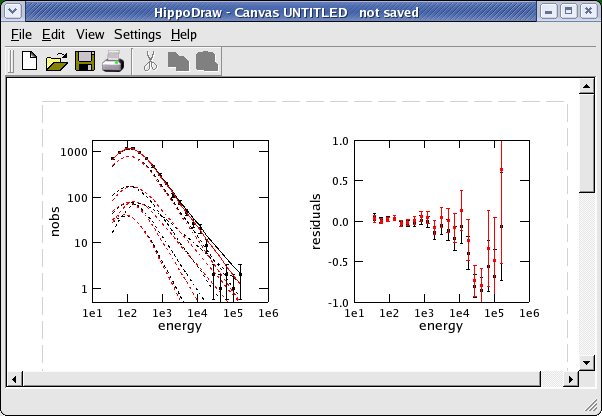
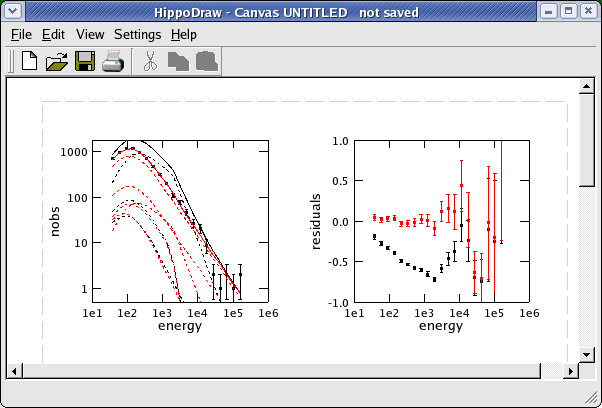
use broken power-laws in demo; fix plotting

diff --git a/src/pyLike.h b/src/pyLike.h
@@ -8,8 +8,8 @@
    package, I've exposed the C++ classes of Likelihood to <a
    href="http://www.python.org/">Python</a>.  These classes by
    themselves do not constitute a suitable interactive interface.
-   However, with a modest amount effort, I've written a couple of
-   small python modules using these classes, SrcAnalysis.py and
+   However, armed with these classes and with a modest effort, I've
+   written a couple of small python modules, SrcAnalysis.py and
    SrcModel.py, that provide something fairly reasonable.
 
    @section demo Interface Demo
@@ -30,7 +30,7 @@ class SrcAnalysis(object):
     - <tt>expMap</tt>: exposure map (produced by @b gtexpmap)
     - <tt>irfs</tt>: response functions, e.g., <tt>'DC1'</tt>, <tt>'G25'</tt>,
       or <tt>'TEST'</tt>
-    - <tt>optimizer</tt>: <tt>'Minuit'</tt>, <tt>'Dmnrgb'</tt>, 
+    - <tt>optimizer</tt>: <tt>'Minuit'</tt>, <tt>'Drmngb'</tt>, 
       or <tt>'Lbfgs'</tt>.
 
 For this demo, I've prepared a small script that creates the SrcAnalysis
@@ -78,10 +78,12 @@ Here are the event files found by <tt>glob</tt>:
 'model', 'optimizer', 'plot', 'plotData', 'resids']
 @endverbatim
 
-Create some references to the object's methods for Xspec-like syntax:
+Let's create some references to the object's methods for Xspec-like syntax:
 
 @verbatim
->>> model = like.model; plot = like.plot; fit = like.fit
+>>> model = like.model
+>>> plot = like.plot
+>>> fit = like.fit
 @endverbatim
 
 <tt>SrcModel.__repr__()</tt> has been overloaded to provide a summary of
@@ -117,26 +119,29 @@ my_3EG_J0530p1323
 8          Scale:  1.000e+02  0.000e+00  3.000e+01  2.000e+03 ( 1.000e+00) fixed
 
 my_3EG_J0534p2200
-   Spectrum: PowerLaw
-9      Prefactor:  2.700e+01  0.000e+00  1.000e-05  1.000e+03 ( 1.000e-09)
-10         Index: -2.190e+00  0.000e+00 -5.000e+00 -1.000e+00 ( 1.000e+00)
-11         Scale:  1.000e+02  0.000e+00  3.000e+01  2.000e+03 ( 1.000e+00) fixed
+   Spectrum: BrokenPowerLaw
+9      Prefactor:  8.000e-02  0.000e+00  1.000e-03  1.000e+03 ( 1.000e-09)
+10        Index1: -2.190e+00  0.000e+00 -5.000e+00 -1.000e+00 ( 1.000e+00)
+11        Index2: -4.890e+00  0.000e+00 -5.000e+00 -1.000e+00 ( 1.000e+00)
+12    BreakValue:  1.500e+03  0.000e+00  3.000e+01  2.000e+03 ( 1.000e+00)
 
 my_3EG_J0633p1751
-   Spectrum: PowerLaw
-12     Prefactor:  2.329e+01  0.000e+00  1.000e-05  1.000e+03 ( 1.000e-09)
-13         Index: -1.660e+00  0.000e+00 -5.000e+00 -1.000e+00 ( 1.000e+00)
-14         Scale:  1.000e+02  0.000e+00  3.000e+01  2.000e+03 ( 1.000e+00) fixed
+   Spectrum: BrokenPowerLaw
+13     Prefactor:  2.000e+00  0.000e+00  1.000e-03  1.000e+03 ( 1.000e-09)
+14        Index1: -1.660e+00  0.000e+00 -5.000e+00 -1.000e+00 ( 1.000e+00)
+15        Index2: -3.100e+00  0.000e+00 -5.000e+00 -1.000e+00 ( 1.000e+00)
+16    BreakValue:  2.000e+03  0.000e+00  3.000e+01  2.000e+03 ( 1.000e+00)
+
 @endverbatim
 
-One can set parameter values using the numeric index:
+One can set parameter values using the index:
 
 @verbatim
 >>> model[0] = 1.595
 @endverbatim
 
-The <tt>plot()</tt> method has been bound to HippoDraw, but any plotting
-package can be used.
+The <tt>plot()</tt> method has been bound to HippoDraw, but any suitable 
+plotting package, e.g., matplotlib, Biggles, pyROOT, could be used.
 
 @verbatim
 >>> plot()
@@ -148,20 +153,28 @@ optimizer::Parameter member functions are automatically dispatched to
 from Python (via the <tt>__getattr__</tt> method):
 
 @verbatim
->>> model[1].setFree(1)
->>> model[3].setFree(0)
->>> model[4].setFree(1)
+>>> model[0].setFree(0)
+>>> model[16].setBounds(300, 3000)
+@endverbatim
+
+Let's create a couple more Xspec-like commands for convenience, using Python's
+<tt>lambda</tt> functions:
+
+@verbatim
+>>> thaw = lambda x: model[x].setFree(1)
+>>> freeze = lambda x: model[x].setFree(0)
+>>> freeze(3)
 >>> model
 Extragalactic Diffuse
    Spectrum: PowerLaw
-0      Prefactor:  1.595e+00  0.000e+00  1.000e-05  1.000e+02 ( 1.000e-07)
-1          Index: -2.100e+00  0.000e+00 -3.500e+00 -1.000e+00 ( 1.000e+00)
+0      Prefactor:  1.595e+00  0.000e+00  1.000e-05  1.000e+02 ( 1.000e-07) fixed
+1          Index: -2.100e+00  0.000e+00 -3.500e+00 -1.000e+00 ( 1.000e+00) fixed
 2          Scale:  1.000e+02  0.000e+00  5.000e+01  2.000e+02 ( 1.000e+00) fixed
 
 Galactic Diffuse
    Spectrum: PowerLaw
 3      Prefactor:  1.100e+01  0.000e+00  1.000e-03  1.000e+03 ( 1.000e-03) fixed
-4          Index: -2.100e+00  0.000e+00 -3.500e+00 -1.000e+00 ( 1.000e+00)
+4          Index: -2.100e+00  0.000e+00 -3.500e+00 -1.000e+00 ( 1.000e+00) fixed
 5          Scale:  1.000e+02  0.000e+00  5.000e+01  2.000e+02 ( 1.000e+00) fixed
 
 my_3EG_J0530p1323
@@ -171,16 +184,19 @@ my_3EG_J0530p1323
 8          Scale:  1.000e+02  0.000e+00  3.000e+01  2.000e+03 ( 1.000e+00) fixed
 
 my_3EG_J0534p2200
-   Spectrum: PowerLaw
-9      Prefactor:  2.700e+01  0.000e+00  1.000e-05  1.000e+03 ( 1.000e-09)
-10         Index: -2.190e+00  0.000e+00 -5.000e+00 -1.000e+00 ( 1.000e+00)
-11         Scale:  1.000e+02  0.000e+00  3.000e+01  2.000e+03 ( 1.000e+00) fixed
+   Spectrum: BrokenPowerLaw
+9      Prefactor:  8.000e-02  0.000e+00  1.000e-03  1.000e+03 ( 1.000e-09)
+10        Index1: -2.190e+00  0.000e+00 -5.000e+00 -1.000e+00 ( 1.000e+00)
+11        Index2: -4.890e+00  0.000e+00 -5.000e+00 -1.000e+00 ( 1.000e+00)
+12    BreakValue:  1.500e+03  0.000e+00  3.000e+01  2.000e+03 ( 1.000e+00)
 
 my_3EG_J0633p1751
-   Spectrum: PowerLaw
-12     Prefactor:  2.329e+01  0.000e+00  1.000e-05  1.000e+03 ( 1.000e-09)
-13         Index: -1.660e+00  0.000e+00 -5.000e+00 -1.000e+00 ( 1.000e+00)
-14         Scale:  1.000e+02  0.000e+00  3.000e+01  2.000e+03 ( 1.000e+00) fixed
+   Spectrum: BrokenPowerLaw
+13     Prefactor:  2.000e+00  0.000e+00  1.000e-03  1.000e+03 ( 1.000e-09)
+14        Index1: -1.660e+00  0.000e+00 -5.000e+00 -1.000e+00 ( 1.000e+00)
+15        Index2: -3.100e+00  0.000e+00 -5.000e+00 -1.000e+00 ( 1.000e+00)
+16    BreakValue:  2.000e+03  0.000e+00  3.000e+02  3.000e+03 ( 1.000e+00)
+
 @endverbatim
 
 Now, perform a fit, suppressing Minuit's screen output; the resulting value 
@@ -188,7 +204,7 @@ Now, perform a fit, suppressing Minuit's screen output; the resulting value
 
 @verbatim
 >>> fit(verbosity=0)
-59350.111358513532
+59334.689815397171
 @endverbatim
 
 Overplot the new result in red (note the IDL-like syntax):
@@ -199,120 +215,25 @@ Overplot the new result in red (note the IDL-like syntax):
 
 @image html demo_plot_2.png
 \n\n
+
+A specific source can be accessed by its full name or by a fragment thereof:
+
 @verbatim
->>> model
-Extragalactic Diffuse
-   Spectrum: PowerLaw
-0      Prefactor:  1.513e+00  1.415e-01  1.000e-05  1.000e+02 ( 1.000e-07)
-1          Index: -1.922e+00  6.930e-02 -3.500e+00 -1.000e+00 ( 1.000e+00)
-2          Scale:  1.000e+02  0.000e+00  5.000e+01  2.000e+02 ( 1.000e+00) fixed
-
-Galactic Diffuse
-   Spectrum: PowerLaw
-3      Prefactor:  1.100e+01  0.000e+00  1.000e-03  1.000e+03 ( 1.000e-03) fixed
-4          Index: -2.135e+00  2.585e-02 -3.500e+00 -1.000e+00 ( 1.000e+00)
-5          Scale:  1.000e+02  0.000e+00  5.000e+01  2.000e+02 ( 1.000e+00) fixed
-
-my_3EG_J0530p1323
-   Spectrum: PowerLaw
-6      Prefactor:  1.432e+01  2.200e+00  1.000e-05  1.000e+03 ( 1.000e-09)
-7          Index: -2.545e+00  1.339e-01 -5.000e+00 -1.000e+00 ( 1.000e+00)
-8          Scale:  1.000e+02  0.000e+00  3.000e+01  2.000e+03 ( 1.000e+00) fixed
-
-my_3EG_J0534p2200
-   Spectrum: PowerLaw
-9      Prefactor:  2.665e+01  2.687e+00  1.000e-05  1.000e+03 ( 1.000e-09)
-10         Index: -2.290e+00  7.180e-02 -5.000e+00 -1.000e+00 ( 1.000e+00)
-11         Scale:  1.000e+02  0.000e+00  3.000e+01  2.000e+03 ( 1.000e+00) fixed
-
+>>> print model["633"]
 my_3EG_J0633p1751
-   Spectrum: PowerLaw
-12     Prefactor:  2.984e+01  2.488e+00  1.000e-05  1.000e+03 ( 1.000e-09)
-13         Index: -1.925e+00  4.423e-02 -5.000e+00 -1.000e+00 ( 1.000e+00)
-14         Scale:  1.000e+02  0.000e+00  3.000e+01  2.000e+03 ( 1.000e+00) fixed
+   Spectrum: BrokenPowerLaw
+13     Prefactor:  1.416e-01  8.264e-02  1.000e-03  1.000e+03 ( 1.000e-09)
+14        Index1: -1.722e+00  6.136e-02 -5.000e+00 -1.000e+00 ( 1.000e+00)
+15        Index2: -3.143e+00  8.971e-01 -5.000e+00 -1.000e+00 ( 1.000e+00)
+16    BreakValue:  2.000e+03  6.771e+02  3.000e+02  3.000e+03 ( 1.000e+00)
 @endverbatim
 
-Individual sources can be accessed:
-
-@verbatim
->>> model["Extra"]
-Extragalactic Diffuse
-   Spectrum: PowerLaw
-0      Prefactor:  1.513e+00  1.415e-01  1.000e-05  1.000e+02 ( 1.000e-07)
-1          Index: -1.922e+00  6.930e-02 -3.500e+00 -1.000e+00 ( 1.000e+00)
-2          Scale:  1.000e+02  0.000e+00  5.000e+01  2.000e+02 ( 1.000e+00) fixed
-@endverbatim
-
-The <tt>logLike</tt> attribute @em is a Likelihood::LogLike object and so its
+The <tt>logLike</tt> attribute is a Likelihood::LogLike object, and so its
 member functions are exposed as Python methods:
 
 @verbatim
 >>> like.logLike.writeXml("fitted_model.xml")
 >>> 
 @endverbatim
-
-For completeness, here's the xml file that was created:
-
-@verbatim
-salathe[jchiang] cat fitted_model.xml
-<?xml version="1.0" standalone="no"?>
-<!DOCTYPE source_library SYSTEM "$(LIKELIHOODROOT)/xml/A1_Sources.dtd" >
-<source_library title="source library">
-  <source name="Extragalactic Diffuse" type="DiffuseSource">
-    <spectrum type="PowerLaw">
-      <parameter error="0.141459" free="1" max="100" min="1e-05" name="Prefactor" scale="1e-07" value="1.5127" />
-      <parameter error="0.0692986" free="1" max="-1" min="-3.5" name="Index" scale="1" value="-1.92173" />
-      <parameter free="0" max="200" min="50" name="Scale" scale="1" value="100" />
-    </spectrum>
-    <spatialModel type="ConstantValue">
-      <parameter free="0" max="10" min="0" name="Value" scale="1" value="1" />
-    </spatialModel>
-  </source>
-  <source name="Galactic Diffuse" type="DiffuseSource">
-    <spectrum type="PowerLaw">
-      <parameter free="0" max="1000" min="0.001" name="Prefactor" scale="0.001" value="11" />
-      <parameter error="0.025852" free="1" max="-1" min="-3.5" name="Index" scale="1" value="-2.13475" />
-      <parameter free="0" max="200" min="50" name="Scale" scale="1" value="100" />
-    </spectrum>
-    <spatialModel file="$(LIKELIHOODROOT)/src/test/Data/gas.cel" type="SpatialMap">
-      <parameter free="0" max="1000" min="0.001" name="Prefactor" scale="1" value="1" />
-    </spatialModel>
-  </source>
-  <source name="my_3EG_J0530p1323" type="PointSource">
-    <spectrum type="PowerLaw">
-      <parameter error="2.19972" free="1" max="1000" min="1e-05" name="Prefactor" scale="1e-09" value="14.3212" />
-      <parameter error="0.133909" free="1" max="-1" min="-5" name="Index" scale="1" value="-2.54496" />
-      <parameter free="0" max="2000" min="30" name="Scale" scale="1" value="100" />
-    </spectrum>
-    <spatialModel type="SkyDirFunction">
-      <parameter free="0" max="360" min="-360" name="RA" scale="1" value="82.74" />
-      <parameter free="0" max="90" min="-90" name="DEC" scale="1" value="13.38" />
-    </spatialModel>
-  </source>
-  <source name="my_3EG_J0534p2200" type="PointSource">
-    <spectrum type="PowerLaw">
-      <parameter error="2.68722" free="1" max="1000" min="1e-05" name="Prefactor" scale="1e-09" value="26.6549" />
-      <parameter error="0.071799" free="1" max="-1" min="-5" name="Index" scale="1" value="-2.29019" />
-      <parameter free="0" max="2000" min="30" name="Scale" scale="1" value="100" />
-    </spectrum>
-    <spatialModel type="SkyDirFunction">
-      <parameter free="0" max="360" min="-360" name="RA" scale="1" value="83.57" />
-      <parameter free="0" max="90" min="-90" name="DEC" scale="1" value="22.01" />
-    </spatialModel>
-  </source>
-  <source name="my_3EG_J0633p1751" type="PointSource">
-    <spectrum type="PowerLaw">
-      <parameter error="2.48764" free="1" max="1000" min="1e-05" name="Prefactor" scale="1e-09" value="29.8384" />
-      <parameter error="0.0442259" free="1" max="-1" min="-5" name="Index" scale="1" value="-1.9255" />
-      <parameter free="0" max="2000" min="30" name="Scale" scale="1" value="100" />
-    </spectrum>
-    <spatialModel type="SkyDirFunction">
-      <parameter free="0" max="360" min="-360" name="RA" scale="1" value="98.49" />
-      <parameter free="0" max="90" min="-90" name="DEC" scale="1" value="17.86" />
-    </spatialModel>
-  </source>
-</source_library>
-salathe[jchiang] 
-@endverbatim
-
 */
+

diff --git a/python/SrcAnalysis.py b/python/SrcAnalysis.py
@@ -78,10 +78,10 @@ class SrcAnalysis(object):
         for emin, emax in zip(self.energies[:-1], self.energies[1:]):
             cnts.append(source.Npred(emin, emax))
         return num.array(cnts)
-    def _plot_model(self, source, yrange=None, lineStyle="Dot",
+    def _plot_model(self, source, yrange=None, lineStyle="Dot", oplot=False,
                     color='black'):
         import hippoplotter as plot
-        if self.disp is not None:
+        if oplot and self.disp is not None:
             plot.canvas.selectDisplay(self.disp)
         else:
             self.plotData(yrange)
@@ -117,17 +117,18 @@ class SrcAnalysis(object):
     def plot(self, srcs=None, oplot=False, yrange=None, color='black'):
         import hippoplotter as plot
         if isinstance(srcs, str):
-            total = self._plot_model(srcs, yrange=yrange, color=color,
-                                     lineStyle='Solid')
+            total = self._plot_model(srcs, yrange=yrange, color=color, 
+                                     oplot=oplot, lineStyle='Solid')
         else:
             if srcs is None:
                 srcs = pyLike.StringVector()
                 self.logLike.getSrcNames(srcs)
-            total = self._plot_model(srcs[0], yrange=yrange, color=color)
+            total = self._plot_model(srcs[0], yrange=yrange, color=color,
+                                     oplot=oplot)
             if len(srcs) > 1:
                 for src in list(srcs[1:]):
-                    total += self._plot_model(src, color=color)
-            self._plot_model(total, color=color, lineStyle='Solid')
+                    total += self._plot_model(src, oplot=True, color=color)
+            self._plot_model(total, color=color, oplot=True, lineStyle='Solid')
         self._plot_residuals(total, oplot=oplot, color=color)
     def fit(self, verbosity=3, tol=1e-5, optimizer=None):
         errors = self._errors(optimizer, verbosity, tol)
